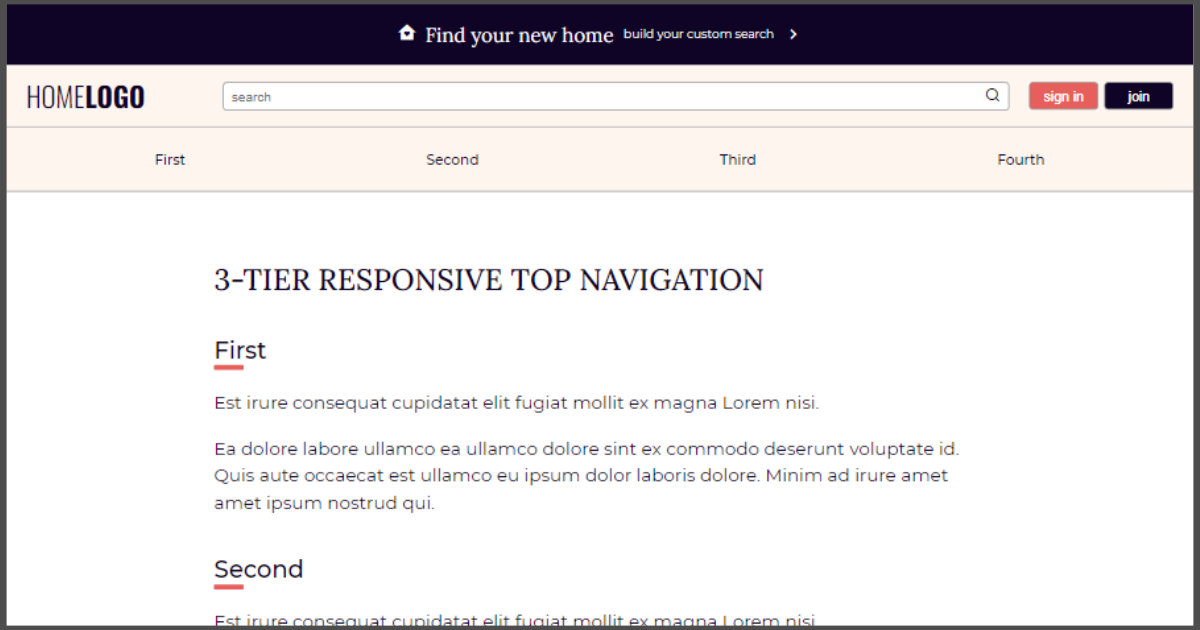
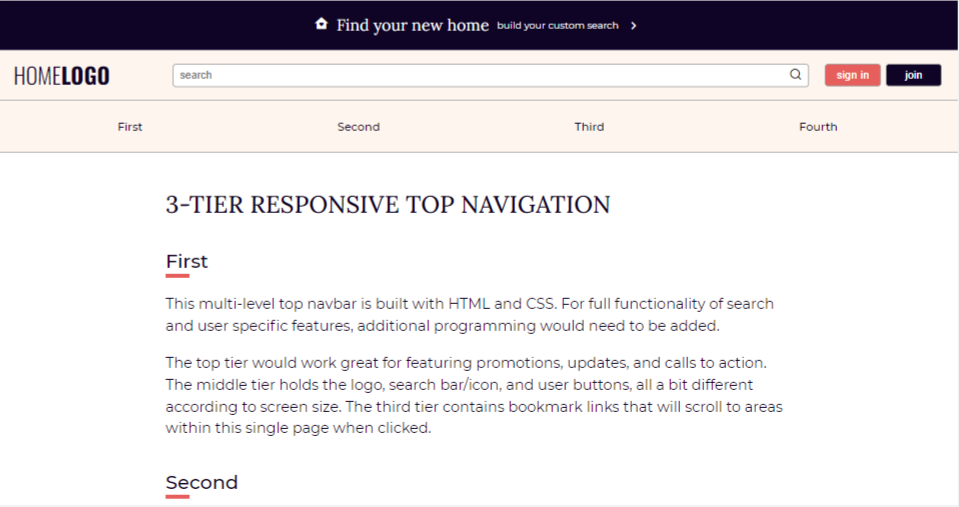
Update main content and social image for 3-tier-top-nav

diff --git a/3-tier-top-nav/index.html b/3-tier-top-nav/index.html
@@ -22,7 +22,7 @@
             <div class="tier-1-left">
                 <i class="ri-home-heart-fill home-icon"></i>
                 <span>Find your new home</span>
-                </div>
+            </div>
             <span class="tier-1-details">build your custom search</span>
             <i class="ri-arrow-right-s-line arrow-icon"></i>
         </div>
@@ -57,32 +57,43 @@
             <section>
                 <h2 id="first">first</h2>
                 <div class="heading-accent"></div>
-                <p>Est irure consequat cupidatat elit fugiat mollit ex magna Lorem nisi.</p>
-                <p>Ea dolore labore ullamco ea ullamco dolore sint ex commodo deserunt voluptate id. Quis aute occaecat
-                    est ullamco eu ipsum dolor laboris dolore. Minim ad irure amet amet ipsum nostrud qui.</p>
+                <p>This multi-level top navbar is built with HTML and CSS. For full functionality of search and user specific features,
+                    additional programming would need to be added.</p>
+                <p>The top tier would work great for featuring promotions, updates, and calls to action. The middle tier holds the logo,
+                    search bar/icon, and user buttons, all a bit different according to screen size. The third tier contains bookmark
+                    links that will scroll to areas within this single page when clicked.</p>
                 </section>
                 <section>
                     <h2 id="second">second</h2>
                     <div class="heading-accent"></div>
-                    <p>Est irure consequat cupidatat elit fugiat mollit ex magna Lorem nisi.</p>
-                <p>Ea dolore labore ullamco ea ullamco dolore sint ex commodo deserunt voluptate id. Quis aute occaecat
-                    est ullamco eu ipsum dolor laboris dolore. Minim ad irure amet amet ipsum nostrud qui.</p>
+                    <p>
+                        <a href="https://github.com/christadejesus/navigation/tree/main/3-tier-top-nav" class="flex-link" target="_blank"
+                            rel="noreferrer"><i class="ri-github-fill"></i>Visit the
+                            GitHub repository</a>
+                        <a href="https://codepen.io/collection/yrPyag" target="_blank" rel="noreferrer" class="flex-link"><i
+                                class="ri-codepen-fill"></i>See
+                            the
+                            collection on
+                            Codepen</a>
+                    </p>
                 </section>
                 <section>
                     <h2 id="third">third</h2>
                     <div class="heading-accent"></div>
-                    <p>Est irure consequat cupidatat elit fugiat mollit ex magna Lorem nisi.</p>
-                <p>Ea dolore labore ullamco ea ullamco dolore sint ex commodo deserunt voluptate id. Quis aute occaecat
-                    est ullamco eu ipsum dolor laboris dolore. Minim ad irure amet amet ipsum nostrud qui.</p>
+                <p>If you found this navigation demo helpful or if you have any questions, I'd love to hear from you.
+                    Visit my
+                    website
+                    at <a href="https://christadejesus.com" target="_blank" rel="noreferrer">christadejesus.com</a> to
+                    connect.</p>
                 </section>
                 <section>
                     <h2 id="fourth">fourth</h2>
                     <div class="heading-accent"></div>
-                    <p>Est irure consequat cupidatat elit fugiat mollit ex magna Lorem nisi.</p>
+                    <p>This is just some dummy text to fill the space for the bookmark link demo functionality.</p>
                 <p>Ea dolore labore ullamco ea ullamco dolore sint ex commodo deserunt voluptate id. Quis aute occaecat
                     est ullamco eu ipsum dolor laboris dolore. Minim ad irure amet amet ipsum nostrud qui.</p>
-                </section>
-                </article>
+            </section>
+            </article>
     </main>
 </body>
 

diff --git a/3-tier-top-nav/style.css b/3-tier-top-nav/style.css
@@ -62,6 +62,12 @@ a {
   color: var(--neutral-dk);
   text-decoration: none;
 }
+p a { /* applies only to hyperlinks placed within paragraphs */
+  font-weight: 600;
+}
+p a:hover {
+  opacity: 80%;
+}
 button {
   background: transparent; /* get rid of that funky default gray background */
   cursor: pointer;
@@ -83,7 +89,10 @@ button {
 .secondary-btn {
   background: var(--neutral-dk);
 }
-
+.flex-link {
+  display: flex;
+  gap: 1rem;
+}
 
 /* CONTAINERS */
 .main-container { /* wraps all page content separating it from any headers/footers */
